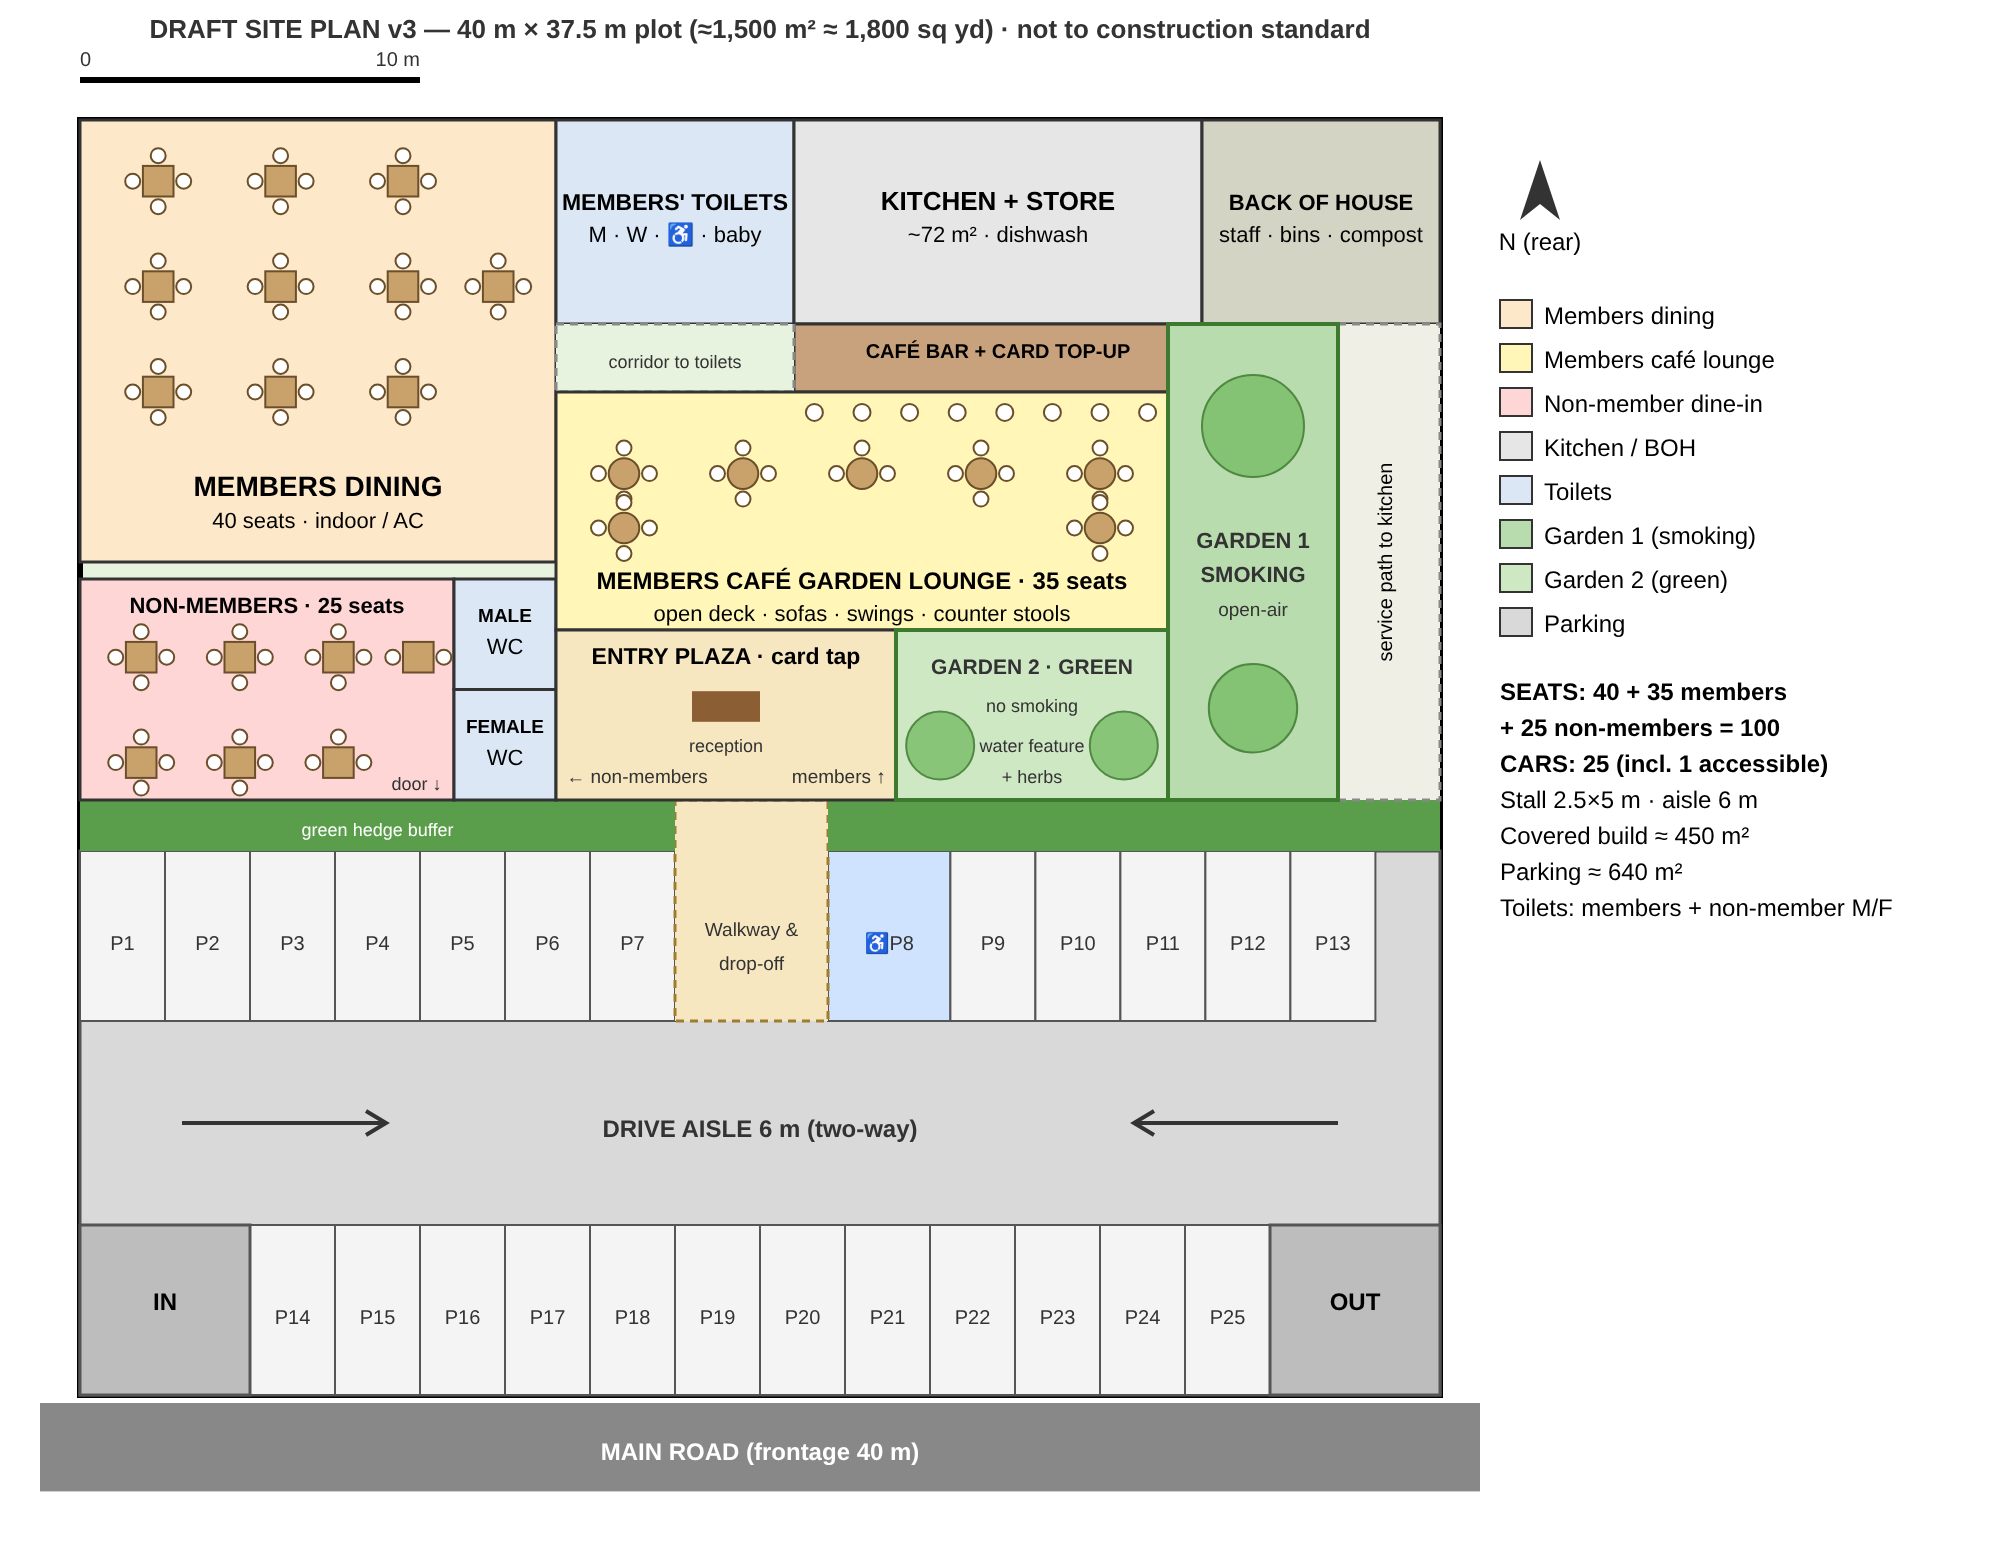
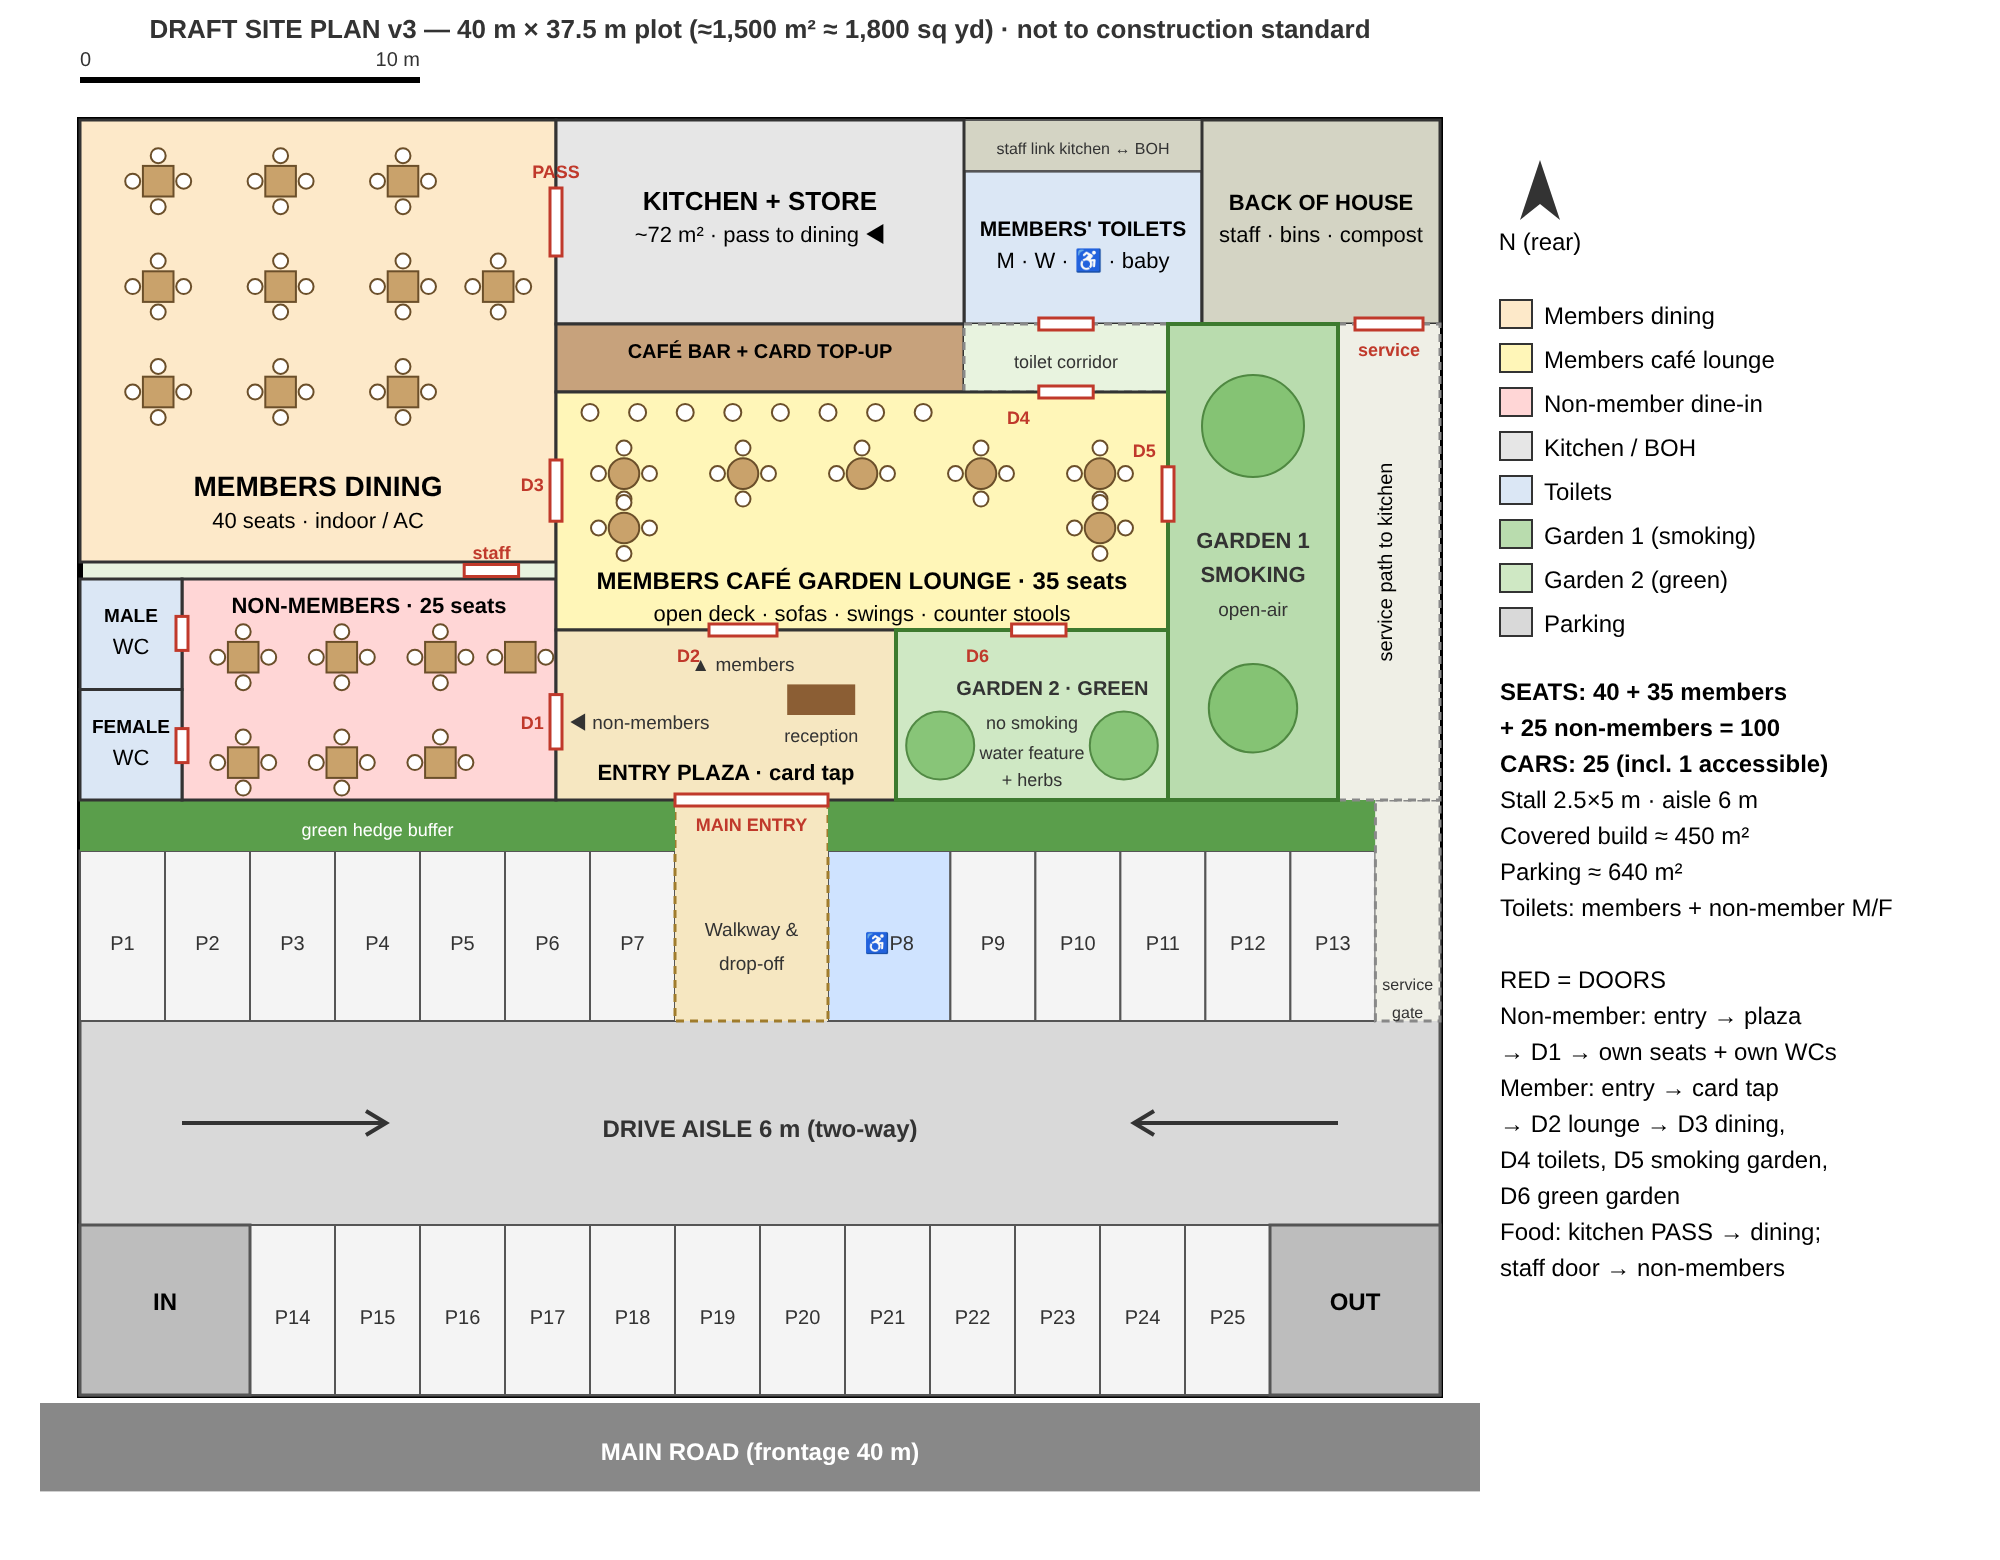
Site plan v3: fix non-member access, add all doors, kitchen pass, service gate
Claude-Session: https://claude.ai/code/session_01Suomtn9juoibYYr5fGLiWS

diff --git a/founder/layout/make_plan.py b/founder/layout/make_plan.py
@@ -46,7 +46,7 @@ r(35,32.5,5,5,"#bdbdbd","OUT",stroke="#555",fs=12)
 r(17.5,20,4.5,6.5,"#f6e7c1","",stroke="#a07c2c",dash="4 3")
 t(19.75,24,"Walkway &amp;",9.5); t(19.75,25,"drop-off",9.5)
 # hedge buffer
-r(0,20,17.5,1.5,"#5a9e4b",stroke="none"); r(22,20,18,1.5,"#5a9e4b",stroke="none")
+r(0,20,17.5,1.5,"#5a9e4b",stroke="none"); r(22,20,16.1,1.5,"#5a9e4b",stroke="none"); r(38.1,20,1.9,6.5,"#efefe6",stroke="#888",dash="4 3"); t(39.05,25.6,"service",8); t(39.05,26.4,"gate",8)
 t(8.75,21.05,"green hedge buffer",9,c="#fff")
 
 # ---- cafe zone y 0-20
@@ -55,38 +55,59 @@ for cx in [2.3,5.9,9.5]:
     for cy in [1.8,4.9,8.0]:
         tab(cx,cy)
 tab(12.3,4.9);  # 10 tables x4 = 40
-r(0,13.5,11,6.5,"#ffd6d6","NON-MEMBERS · 25 seats",fs=11,ly=14.5)
-for cx in [1.8,4.7,7.6]: tab(cx,15.8)
-tab(9.95,15.8,2)
-for cx in [1.8,4.7]: tab(cx,18.9)
-tab(7.6,18.9,3)
-t(9.9,19.7,"door ↓",9)
-r(11,13.5,3,3.25,"#dbe7f5","MALE","WC",fs=9.5)
-r(11,16.75,3,3.25,"#dbe7f5","FEMALE","WC",fs=9.5)
-r(14,0,7,6,"#dbe7f5","MEMBERS' TOILETS","M · W · ♿ · baby",fs=11.5)
-r(21,0,12,6,"#e6e6e6","KITCHEN + STORE","~72 m² · dishwash",fs=13)
-r(21,6,12,2,"#c7a27c","CAFÉ BAR + CARD TOP-UP",fs=10)
+r(3,13.5,11,6.5,"#ffd6d6","NON-MEMBERS · 25 seats",fs=11,ly=14.5)
+for cx in [4.8,7.7,10.6]: tab(cx,15.8)
+tab(12.95,15.8,2)
+for cx in [4.8,7.7]: tab(cx,18.9)
+tab(10.6,18.9,3)
+r(0,13.5,3,3.25,"#dbe7f5","MALE","WC",fs=9.5)
+r(0,16.75,3,3.25,"#dbe7f5","FEMALE","WC",fs=9.5)
+r(26,1.5,7,4.5,"#dbe7f5","MEMBERS' TOILETS","M · W · ♿ · baby",fs=10.5)
+r(26,0,7,1.5,"#d4d4c4",stroke="#555",sw=1); t(29.5,1.0,"staff link kitchen ↔ BOH",8)
+r(14,0,12,6,"#e6e6e6","KITCHEN + STORE","~72 m² · pass to dining ◀",fs=13)
+r(14,6,12,2,"#c7a27c","CAFÉ BAR + CARD TOP-UP",fs=10)
 r(33,0,7,6,"#d4d4c4","BACK OF HOUSE","staff · bins · compost",fs=11)
 r(37,6,3,14,"#efefe6",stroke="#888",dash="4 3")
 out.append(f'<text x="{OX+38.6*S}" y="{OY+13*S}" font-size="10" text-anchor="middle" transform="rotate(-90 {OX+38.6*S} {OY+13*S})">service path to kitchen</text>')
-r(14,6,7,2,"#e8f3df",stroke="#888",dash="4 3"); t(17.5,7.3,"corridor to toilets",9)
+r(26,6,6,2,"#e8f3df",stroke="#888",dash="4 3"); t(29,7.3,"toilet corridor",9)
 r(14,8,18,7,"#fff6b8","MEMBERS CAFÉ GARDEN LOUNGE · 35 seats","open deck · sofas · swings · counter stools",fs=12,ly=14.15)
 for cx in [16,19.5,26.5,30]: tab(cx,10.4,4,True)
 for cx in [23]: tab(cx,10.4,3,True)
 for cx in [16,30]: tab(cx,12.0,4,True)
  # 6x4+3=27
 # counter bar stools along lounge top
-for i in range(8): out.append(f'<circle cx="{OX+(21.6+i*1.4)*S}" cy="{OY+8.6*S}" r="{0.25*S}" fill="#fff" stroke="#6b4f2a"/>')
+for i in range(8): out.append(f'<circle cx="{OX+(15.0+i*1.4)*S}" cy="{OY+8.6*S}" r="{0.25*S}" fill="#fff" stroke="#6b4f2a"/>')
 r(32,6,5,14,"#b9dcae","","",stroke="#3d7a2f",sw=2); tree(34.5,9,1.5); tree(34.5,17.3,1.3)
 t(34.5,12.6,"GARDEN 1",11,b=True); t(34.5,13.6,"SMOKING",11,b=True); t(34.5,14.6,"open-air",9.5)
-r(14,15,10,5,"#f6e7c1","ENTRY PLAZA · card tap",fs=11.5,ly=16)
-out.append(f'<rect x="{OX+18*S}" y="{OY+16.8*S}" width="{2*S}" height="{0.9*S}" fill="#8b5e34"/>')
-t(19,18.6,"reception",9,c="#333")
-t(14.3,19.5,"← non-members",9.5,a="start"); t(23.7,19.5,"members ↑",9.5,a="end")
+r(14,15,10,5,"#f6e7c1","ENTRY PLAZA · card tap",fs=11,ly=19.4)
+out.append(f'<rect x="{OX+20.8*S}" y="{OY+16.6*S}" width="{2*S}" height="{0.9*S}" fill="#8b5e34"/>')
+t(21.8,18.3,"reception",9,c="#333")
+t(14.4,17.9,"◀ non-members",9.5,a="start"); t(19.5,16.2,"▲ members",9.5)
 r(24,15,8,5,"#cfe8c4",stroke="#3d7a2f",sw=2)
 for (x,y) in [(25.3,18.4),(30.7,18.4)]: tree(x,y,1.0)
-t(28,16.3,"GARDEN 2 · GREEN",10.5,b=True); t(28,17.4,"no smoking",9); t(28,18.6,"water feature",9); t(28,19.5,"+ herbs",9)
+t(28.6,16.9,"GARDEN 2 · GREEN",10,b=True); t(28,17.9,"no smoking",9); t(28,18.8,"water feature",9); t(28,19.6,"+ herbs",9)
 for (x,y) in [(1,1),(13,12.4)]: pass
+
+
+def door(x,y,length,vertical,label,lx=0,ly=0):
+    if vertical:
+        out.append(f'<rect x="{OX*1+x*S-3}" y="{OY+y*S}" width="6" height="{length*S}" fill="#fff" stroke="#c0392b" stroke-width="1.5"/>')
+    else:
+        out.append(f'<rect x="{OX+x*S}" y="{OY+y*S-3}" width="{length*S}" height="6" fill="#fff" stroke="#c0392b" stroke-width="1.5"/>')
+    out.append(f'<text x="{OX+(x+lx)*S}" y="{OY+(y+ly)*S}" font-size="9" font-weight="700" fill="#c0392b" text-anchor="middle">{label}</text>')
+door(14,16.9,1.6,True,"D1",-0.7,1.0)        # plaza -> non-member dine-in
+door(3,14.6,1.0,True,"",0,0)                 # non-member -> male WC
+door(3,17.9,1.0,True,"",0,0)                 # non-member -> female WC
+door(18.5,15,2.0,False,"D2",-0.6,0.95)       # plaza -> members lounge
+door(14,10.0,1.8,True,"D3",-0.7,0.9)         # lounge -> members dining
+door(28.2,8,1.6,False,"D4",-0.6,0.95)       # lounge -> toilet corridor
+door(28.2,6,1.6,False,"",0,0)                # corridor -> toilets
+door(32,10.2,1.6,True,"D5",-0.7,-0.3)         # lounge -> garden 1 (smoking)
+door(27.4,15,1.6,False,"D6",-1.0,0.95)       # lounge -> garden 2
+door(14,2,2.0,True,"PASS",0.0,-0.3)          # kitchen -> dining serving hatch
+door(11.3,13.25,1.6,False,"staff",0.8,-0.35) # dining -> non-member (staff only, for serving)
+door(37.5,6,2.0,False,"service",1.0,0.95)   # BOH -> service path
+door(17.5,20,4.5,False,"MAIN ENTRY",2.25,0.9) # walkway -> plaza
 
 # north arrow + scale
 out.append(f'<g transform="translate({OX+W*S+40},{OY+20})"><path d="M0 30 L10 0 L20 30 L10 22 Z" fill="#333"/><text x="10" y="45" font-size="12" text-anchor="middle">N (rear)</text></g>')
@@ -99,6 +120,7 @@ lx=OX+W*S+30; ly=OY+90
 for i,(k,c) in enumerate(L):
     out.append(f'<rect x="{lx}" y="{ly+i*22}" width="16" height="14" fill="{c}" stroke="#333"/><text x="{lx+22}" y="{ly+i*22+12}" font-size="12">{k}</text>')
 summ=["SEATS: 40 + 35 members","          + 25 non-members = 100","CARS: 25 (incl. 1 accessible)","Stall 2.5×5 m · aisle 6 m","Covered build ≈ 450 m²","Parking ≈ 640 m²","Toilets: members + non-member M/F"]
+summ+=["","RED = DOORS","Non-member: entry → plaza","  → D1 → own seats + own WCs","Member: entry → card tap","  → D2 lounge → D3 dining,","  D4 toilets, D5 smoking garden,","  D6 green garden","Food: kitchen PASS → dining;","  staff door → non-members"]
 for i,s in enumerate(summ):
     out.append(f'<text x="{lx}" y="{ly+200+i*18}" font-size="12"{" font-weight=\"700\"" if i<3 else ""}>{s}</text>')
 CW=OX+W*S+250; CH=OY+H*S+70
